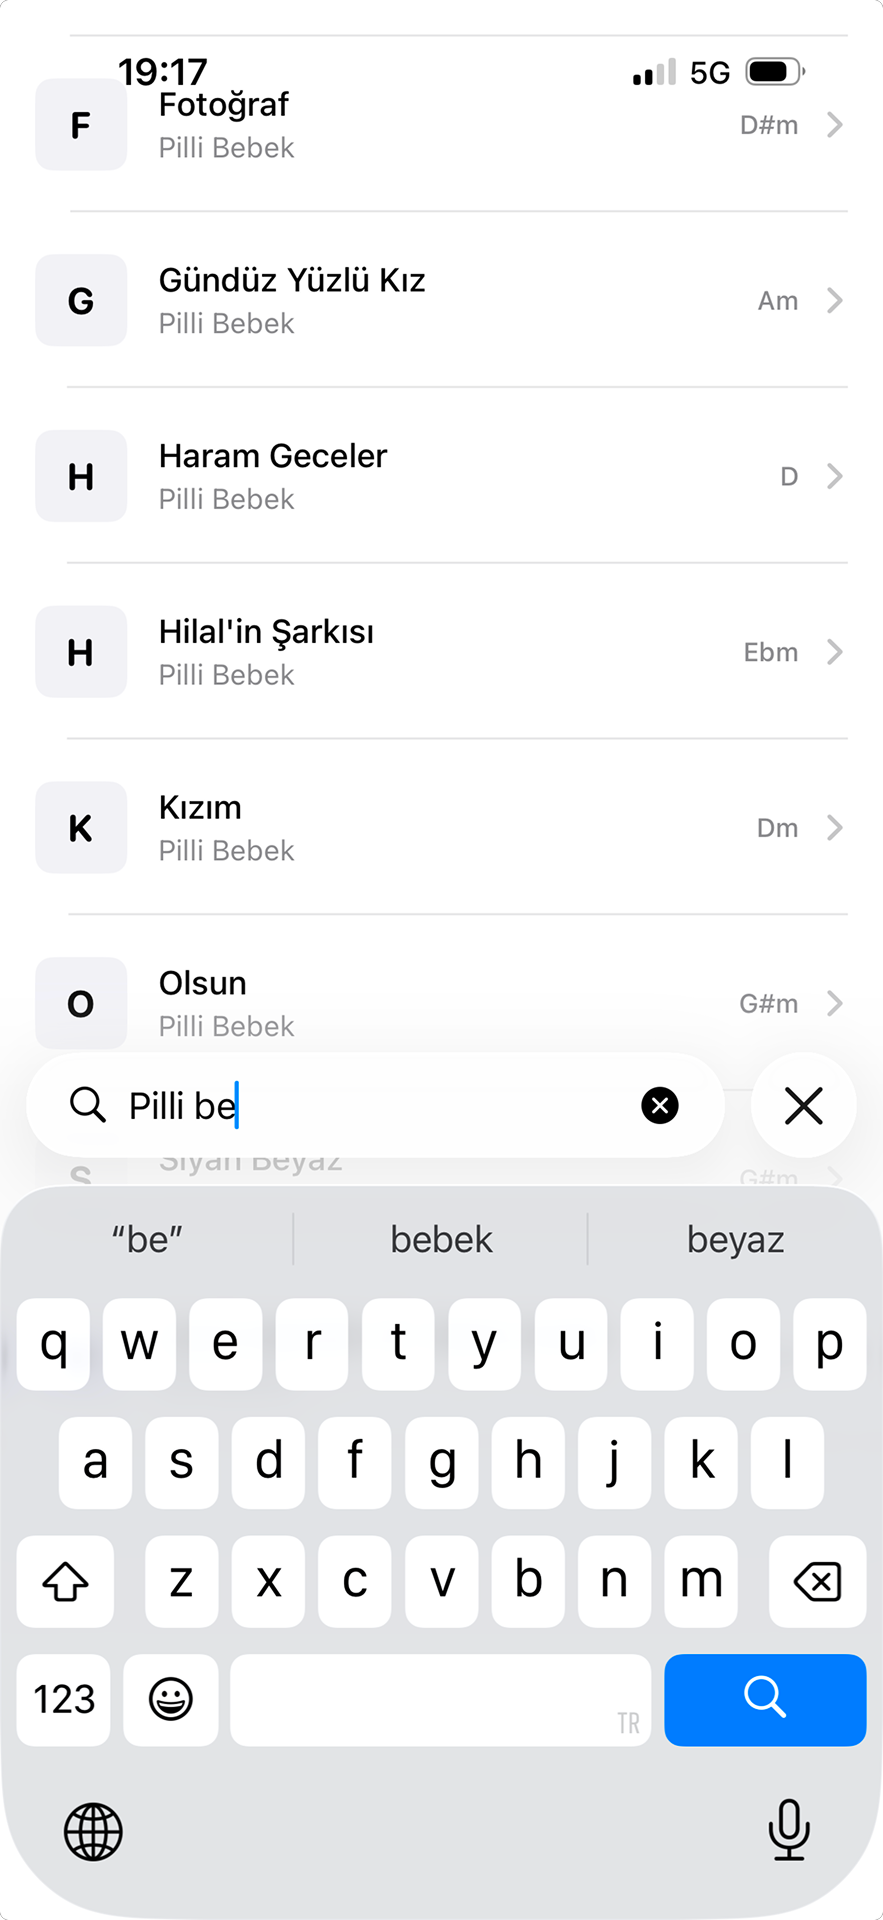
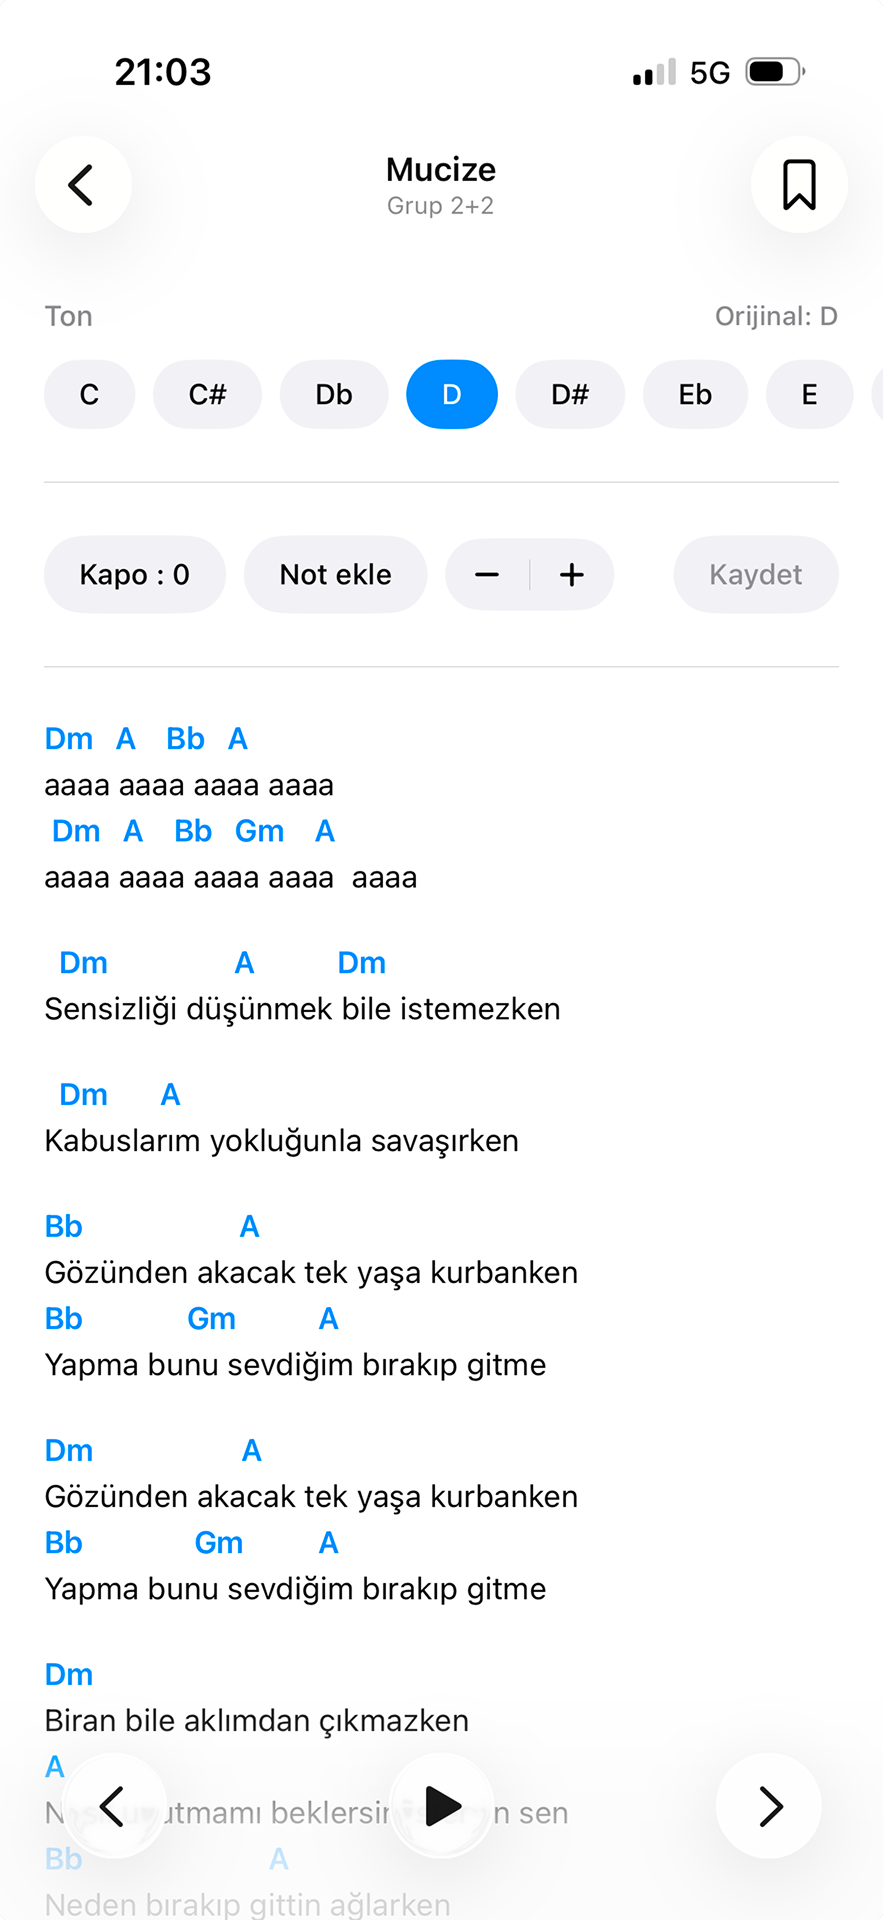
Add privacy policy, terms of use, and update app-ads.txt

diff --git a/src/app/privacy/page.tsx b/src/app/privacy/page.tsx
@@ -1,0 +1,83 @@
+import Navigation from "@/components/Navigation";
+import Footer from "@/components/Footer";
+
+export const metadata = {
+  title: "Gizlilik Politikası | Gituar",
+  description: "Gituar uygulaması gizlilik politikası ve kişisel verilerin korunması hakkında bilgilendirme.",
+};
+
+export default function PrivacyPolicy() {
+  return (
+    <main className="min-h-screen bg-white">
+      <Navigation />
+      
+      <div className="pt-32 pb-20 px-6 max-w-[800px] mx-auto">
+        <h1 className="text-4xl font-semibold tracking-tight text-black mb-8">Gizlilik Politikası</h1>
+        
+        <div className="prose prose-zinc max-w-none text-zinc-600">
+          <p className="text-sm mb-8">Son güncellenme tarihi: {new Date().toLocaleDateString('tr-TR')}</p>
+          
+          <h2 className="text-xl font-medium text-black mt-8 mb-4">1. Giriş</h2>
+          <p className="mb-4">
+            Gituar ("biz", "bize" veya "bizim") olarak gizliliğinize saygı duyuyoruz. Bu Gizlilik Politikası, mobil uygulamamızı ve hizmetlerimizi kullanırken kişisel bilgilerinizin nasıl toplandığını, kullanıldığını ve paylaşıldığını açıklar. Apple'ın App Store gizlilik standartlarına tam uyum sağlamayı taahhüt ediyoruz.
+          </p>
+
+          <h2 className="text-xl font-medium text-black mt-8 mb-4">2. Toplanan Veriler</h2>
+          <p className="mb-4">
+            Uygulamamızı kullandığınızda aşağıdaki türde bilgileri toplayabiliriz:
+          </p>
+          <ul className="list-disc pl-5 mb-4 space-y-2">
+            <li><strong>Kullanıcı Tarafından Sağlanan Veriler:</strong> Hesap oluştururken verdiğiniz e-posta adresi ve profil bilgileri.</li>
+            <li><strong>Uygulama İçi Veriler:</strong> Favori şarkılarınız, repertuvarlarınız ve uygulama içi etkileşimleriniz.</li>
+            <li><strong>Cihaz ve Teşhis Verileri:</strong> Cihaz modeli, işletim sistemi sürümü, çökme günlükleri (crash logs) ve performans verileri.</li>
+          </ul>
+
+          <h2 className="text-xl font-medium text-black mt-8 mb-4">3. Verilerin Kullanımı</h2>
+          <p className="mb-4">
+            Topladığımız bilgileri şu amaçlarla kullanırız:
+          </p>
+          <ul className="list-disc pl-5 mb-4 space-y-2">
+            <li>Size kişiselleştirilmiş bir deneyim sunmak ve repertuvarlarınızı cihazlar arası senkronize etmek.</li>
+            <li>Uygulama performansını izlemek, hataları gidermek ve hizmetlerimizi geliştirmek.</li>
+            <li>Güvenliği sağlamak ve kötüye kullanımı önlemek.</li>
+          </ul>
+
+          <h2 className="text-xl font-medium text-black mt-8 mb-4">4. Veri Paylaşımı ve Üçüncü Taraflar</h2>
+          <p className="mb-4">
+            Kişisel verilerinizi asla üçüncü taraflara satmayız. Ancak hizmetlerimizi sunabilmek için aşağıdaki gibi güvenilir servis sağlayıcılarla çalışabiliriz:
+          </p>
+          <ul className="list-disc pl-5 mb-4 space-y-2">
+            <li><strong>Google AdMob:</strong> Uygulama içinde reklam göstermek için kullanılır. AdMob, size uygun reklamlar sunabilmek için cihaz tanımlayıcılarını kullanabilir. Cihaz ayarlarınızdan reklam kişiselleştirmeyi sınırlandırabilirsiniz.</li>
+            <li><strong>Firebase:</strong> Veritabanı yönetimi, kimlik doğrulama, çökme analizleri ve analitik için kullanılır.</li>
+          </ul>
+
+          <h2 className="text-xl font-medium text-black mt-8 mb-4">5. Veri Silme ve Kullanıcı Hakları</h2>
+          <p className="mb-4">
+            Apple yönergeleri gereğince verileriniz üzerinde tam kontrol sahibisiniz:
+          </p>
+          <ul className="list-disc pl-5 mb-4 space-y-2">
+            <li>Uygulama içindeki hesap ayarları bölümünden hesabınızı ve tüm verilerinizi kalıcı olarak silebilirsiniz.</li>
+            <li>Hangi verilerinizi sakladığımızı öğrenmek veya dışa aktarmak için bizimle iletişime geçebilirsiniz.</li>
+          </ul>
+
+          <h2 className="text-xl font-medium text-black mt-8 mb-4">6. Veri Güvenliği</h2>
+          <p className="mb-4">
+            Verilerinizi korumak için endüstri standardı şifreleme ve güvenlik önlemleri kullanıyoruz. Verileriniz güvenli sunucularda saklanır ve yalnızca gerekli durumlarda erişilir.
+          </p>
+
+          <h2 className="text-xl font-medium text-black mt-8 mb-4">7. Çocukların Gizliliği</h2>
+          <p className="mb-4">
+            Hizmetlerimiz 13 yaşın altındaki çocuklara yönelik değildir. 13 yaşın altındaki çocuklardan bilerek kişisel bilgi toplamıyoruz.
+          </p>
+
+          <h2 className="text-xl font-medium text-black mt-8 mb-4">8. İletişim</h2>
+          <p className="mb-4">
+            Bu Gizlilik Politikası hakkında sorularınız varsa, lütfen bizimle iletişime geçin: <strong>iletisim@gituar.com</strong>
+          </p>
+        </div>
+      </div>
+
+      <Footer />
+    </main>
+  );
+}

diff --git a/src/app/terms/page.tsx b/src/app/terms/page.tsx
@@ -1,0 +1,75 @@
+import Navigation from "@/components/Navigation";
+import Footer from "@/components/Footer";
+
+export const metadata = {
+  title: "Kullanım Koşulları | Gituar",
+  description: "Gituar uygulaması kullanım koşulları ve hizmet şartları.",
+};
+
+export default function TermsOfUse() {
+  return (
+    <main className="min-h-screen bg-white">
+      <Navigation />
+      
+      <div className="pt-32 pb-20 px-6 max-w-[800px] mx-auto">
+        <h1 className="text-4xl font-semibold tracking-tight text-black mb-8">Kullanım Koşulları</h1>
+        
+        <div className="prose prose-zinc max-w-none text-zinc-600">
+          <p className="text-sm mb-8">Son güncellenme tarihi: {new Date().toLocaleDateString('tr-TR')}</p>
+          
+          <h2 className="text-xl font-medium text-black mt-8 mb-4">1. Kabul Edilme</h2>
+          <p className="mb-4">
+            Gituar uygulamasını indirerek, erişerek veya kullanarak bu Kullanım Koşulları'nı kabul etmiş olursunuz. Bu koşulları kabul etmiyorsanız, lütfen uygulamayı kullanmayın.
+          </p>
+
+          <h2 className="text-xl font-medium text-black mt-8 mb-4">2. Hizmetin Kullanımı</h2>
+          <p className="mb-4">
+            Gituar, gitaristlere akorları, sözleri ve repertuvarları yönetme imkanı sunar. Hizmetimizi kullanırken aşağıdaki kurallara uymayı kabul edersiniz:
+          </p>
+          <ul className="list-disc pl-5 mb-4 space-y-2">
+            <li>Uygulamayı yasadışı amaçlar için kullanmamak.</li>
+            <li>Diğer kullanıcıların deneyimini bozacak veya engelleyecek eylemlerde bulunmamak.</li>
+            <li>Uygulamanın çalışmasını engellemeye, tersine mühendislik yapmaya veya sisteme zarar vermeye çalışmamak.</li>
+          </ul>
+
+          <h2 className="text-xl font-medium text-black mt-8 mb-4">3. Hesap ve Güvenlik</h2>
+          <p className="mb-4">
+            Bazı özelliklere erişmek için bir hesap oluşturmanız gerekebilir. Hesap bilgilerinizin gizliliğini korumak ve hesabınız altında gerçekleşen tüm faaliyetlerden siz sorumlusunuz. Yetkisiz bir kullanım tespit ederseniz, derhal bizimle iletişime geçmelisiniz.
+          </p>
+
+          <h2 className="text-xl font-medium text-black mt-8 mb-4">4. Fikri Mülkiyet ve İçerik</h2>
+          <p className="mb-4">
+            Uygulamada yer alan şarkı sözleri, akorlar ve benzeri içerikler, ilgili hak sahiplerinin mülkiyetinde olabilir ve yalnızca eğitim, pratik ve kişisel kullanım amacıyla sunulmaktadır. Gituar uygulamasının yazılımı, tasarımı, logosu ve kaynak kodları tarafımıza aittir ve telif hakkı yasalarıyla korunmaktadır.
+          </p>
+
+          <h2 className="text-xl font-medium text-black mt-8 mb-4">5. Kullanıcı Tarafından Oluşturulan İçerik</h2>
+          <p className="mb-4">
+            Uygulamaya kendi içeriklerinizi veya repertuvarlarınızı eklediğinizde, bu içeriklerin yasal sorumluluğu tamamen size aittir. Telif hakkı veya diğer mülkiyet haklarını ihlal eden içerikler tespit edildiğinde, tarafımızca uyarı yapılmaksızın silinebilir.
+          </p>
+
+          <h2 className="text-xl font-medium text-black mt-8 mb-4">6. Uygulama İçi Satın Alımlar ve Abonelikler</h2>
+          <p className="mb-4">
+            Gituar, Apple App Store üzerinden uygulama içi satın alımlar veya otomatik yenilenen abonelikler sunabilir. Satın alma işlemleri Apple'ın standart politikalarına tabidir ve iptal/iade işlemleri cihazınızdaki Apple Kimliği (Apple ID) ayarlarından yapılmalıdır.
+          </p>
+
+          <h2 className="text-xl font-medium text-black mt-8 mb-4">7. Garanti Reddi ve Sorumluluğun Sınırlandırılması</h2>
+          <p className="mb-4">
+            Uygulama "olduğu gibi" ve "mevcut olduğu şekilde" sağlanmaktadır. Uygulamanın kesintisiz veya hatasız çalışacağı garantisini vermiyoruz. Gituar'ın kullanımından doğabilecek doğrudan veya dolaylı hiçbir veri kaybı veya zarardan tarafımız sorumlu tutulamaz.
+          </p>
+
+          <h2 className="text-xl font-medium text-black mt-8 mb-4">8. Değişiklikler</h2>
+          <p className="mb-4">
+            Bu koşulları dilediğimiz zaman önceden haber vermeksizin güncelleyebiliriz. Önemli değişiklikler olması durumunda uygulama içinde bildirimde bulunacağız. Değişikliklerden sonra uygulamayı kullanmaya devam etmeniz, yeni koşulları kabul ettiğiniz anlamına gelir.
+          </p>
+
+          <h2 className="text-xl font-medium text-black mt-8 mb-4">9. İletişim</h2>
+          <p className="mb-4">
+            Kullanım koşullarıyla ilgili her türlü sorunuz için bizimle iletişime geçebilirsiniz: <strong>iletisim@gituar.com</strong>
+          </p>
+        </div>
+      </div>
+
+      <Footer />
+    </main>
+  );
+}

diff --git a/src/components/IPhoneScene.tsx b/src/components/IPhoneScene.tsx
@@ -169,7 +169,7 @@ export default function IPhoneScene() {
         start: 'top bottom',
         end: 'top top',
         scrub: true,
-        animation: gsap.fromTo(proxy, { p: 0 }, { p: 1, ease: 'none', onUpdate: onUpdateProxy })
+        animation: gsap.fromTo(proxy, { p: 0 }, { p: 1, ease: 'none', onUpdate: onUpdateProxy, immediateRender: false })
       });
 
       // 2. Inside Features (Slow motion drift during pin)
@@ -178,7 +178,7 @@ export default function IPhoneScene() {
         start: 'top top',
         end: '+=300%',
         scrub: true,
-        animation: gsap.fromTo(proxy, { p: 1 }, { p: 1.05, ease: 'none', onUpdate: onUpdateProxy })
+        animation: gsap.fromTo(proxy, { p: 1 }, { p: 1.05, ease: 'none', onUpdate: onUpdateProxy, immediateRender: false })
       });
 
       // 3. Features to Community (Fast transition)
@@ -187,7 +187,7 @@ export default function IPhoneScene() {
         start: 'top bottom',
         end: 'top top',
         scrub: true,
-        animation: gsap.fromTo(proxy, { p: 1.05 }, { p: 2, ease: 'none', onUpdate: onUpdateProxy })
+        animation: gsap.fromTo(proxy, { p: 1.05 }, { p: 2, ease: 'none', onUpdate: onUpdateProxy, immediateRender: false })
       });
 
       // 4. Inside Community (Slow motion drift during pin)
@@ -196,7 +196,7 @@ export default function IPhoneScene() {
         start: 'top top',
         end: '+=300%',
         scrub: true,
-        animation: gsap.fromTo(proxy, { p: 2 }, { p: 2.05, ease: 'none', onUpdate: onUpdateProxy })
+        animation: gsap.fromTo(proxy, { p: 2 }, { p: 2.05, ease: 'none', onUpdate: onUpdateProxy, immediateRender: false })
       });
 
       // 5. Community to CTA (Fast transition)
@@ -205,8 +205,12 @@ export default function IPhoneScene() {
         start: 'top bottom',
         end: 'top top',
         scrub: true,
-        animation: gsap.fromTo(proxy, { p: 2.05 }, { p: 3, ease: 'none', onUpdate: onUpdateProxy })
+        animation: gsap.fromTo(proxy, { p: 2.05 }, { p: 3, ease: 'none', onUpdate: onUpdateProxy, immediateRender: false })
       });
+
+      // Force initial update to state 0
+      onUpdateProxy();
+      ScrollTrigger.refresh();
       
       // Initialize to state 0
       applyTexture(0);

diff --git a/src/components/sections/FeaturesSection.tsx b/src/components/sections/FeaturesSection.tsx
@@ -56,13 +56,12 @@ export default function FeaturesSection() {
 
   useEffect(() => {
     const ctx = gsap.context(() => {
-      const label = sectionRef.current?.querySelector('.feature-label');
       const titleContainer = sectionRef.current?.querySelector('.feature-title-container');
       const cards = sectionRef.current?.querySelectorAll('.feature-card');
       const chars = textRef.current?.querySelectorAll('.char');
 
       // Başlangıç durumu
-      gsap.set([label, titleContainer], { opacity: 0, y: 40 });
+      gsap.set([titleContainer], { opacity: 0, y: 40 });
       gsap.set(cards, { opacity: 0, x: 60 }); // Kutucuklar sağdan gelecek
 
       // Scroll timeline
@@ -77,8 +76,7 @@ export default function FeaturesSection() {
         }
       });
 
-      tl.to(label, { opacity: 1, y: 0, duration: 1 })
-        .to(titleContainer, { opacity: 1, y: 0, duration: 1 }, "-=0.5")
+      tl.to(titleContainer, { opacity: 1, y: 0, duration: 1 })
         .add("textFillStart", "-=0.5")
         .to(chars, { color: '#000000', stagger: 0.1, duration: 2 }, "textFillStart")
         // Kutucuklar başlık efektiyle eş zamanlı gelmeye başlar
@@ -107,16 +105,11 @@ export default function FeaturesSection() {
       <div className="w-full max-w-[800px] px-6">
         <div className="ml-auto max-w-[460px]">
           <div className="mb-10">
-            <div className="feature-label inline-flex items-center gap-2 bg-zinc-100 border border-zinc-200 rounded-full px-4 py-2 w-fit mb-4">
-              <span className="text-[12px] font-medium text-black tracking-wide uppercase">
-                Özellikler
-              </span>
-            </div>
             <div className="feature-title-container">
               <h2 ref={textRef} className="text-[36px] leading-[1.1] font-medium tracking-[-0.025em]">
-                {renderText("Müziğini")}
+                {renderText("Repertuvarın")}
                 <br />
-                {renderText("Sahneni Genişlet")}
+                {renderText("Kontrolün Altında")}
               </h2>
             </div>
           </div>

diff --git a/src/components/Footer.tsx b/src/components/Footer.tsx
@@ -2,27 +2,18 @@ export default function Footer() {
   return (
     <footer
       className="relative border-t border-zinc-100 bg-white"
-      style={{ zIndex: 1 }}
+      style={{ zIndex: 20 }}
     >
       <div className="max-w-[800px] mx-auto px-6 py-10 flex flex-col sm:flex-row items-center justify-between gap-4">
-        <div className="flex items-center gap-2.5">
-          <div className="w-7 h-7 rounded-[7px] bg-black flex items-center justify-center">
-            <svg viewBox="0 0 24 24" fill="white" className="w-4 h-4">
-              <path d="M12 3a9 9 0 100 18A9 9 0 0012 3zm0 2a7 7 0 110 14A7 7 0 0112 5zm-1 3v5l4 2.5-.75 1.23L10 14V8h1z" />
-            </svg>
-          </div>
-          <span className="text-[14px] font-semibold text-black">Gituar</span>
-        </div>
-
-        <p className="text-[13px] text-zinc-400 text-center">
+        <p className="text-[13px] text-zinc-400 text-center sm:text-left">
           © {new Date().getFullYear()} Gituar. Tüm hakları saklıdır.
         </p>
 
         <div className="flex gap-5">
-          <a href="/app-ads.txt" className="text-[13px] text-zinc-400 hover:text-black transition-colors">
-            Gizlilik
+          <a href="/privacy" className="text-[13px] text-zinc-400 hover:text-black transition-colors">
+            Gizlilik Politikası
           </a>
-          <a href="#" className="text-[13px] text-zinc-400 hover:text-black transition-colors">
+          <a href="/terms" className="text-[13px] text-zinc-400 hover:text-black transition-colors">
             Kullanım Koşulları
           </a>
         </div>

diff --git a/src/components/sections/CommunitySection.tsx b/src/components/sections/CommunitySection.tsx
@@ -71,14 +71,14 @@ export default function CommunitySection() {
         <div className="max-w-[400px] flex flex-col gap-6">
           <div className="community-title-container">
             <h2 ref={textRef} className="text-[36px] leading-[1.1] font-medium tracking-[-0.025em]">
-              {renderText("Müziğini")}
+              {renderText("Devasa Şarkı")}
               <br />
-              {renderText("Sahneni Genişlet")}
+              {renderText("ve Sanatçı Arşivi")}
             </h2>
           </div>
 
           <p className="community-desc text-[15px] leading-[1.6] text-zinc-500">
-            Gituar ile akorlarını düzenle, dijital repertuarını oluştur ve Popüler şarkıları saniyeler içinde keşfet. Müzik yolculuğunda ihtiyacın olan her şey tek bir platformda.
+            Genişleyen şarkı ve sanatçı havuzumuzda aradığın her şeyi bul. Topluluğun gücüyle her gün eklenen yeni şarkıları keşfet ve popüler şarkılar listesiyle trendleri yakala.
           </p>
 
           {/* Stats */}

diff --git a/src/components/sections/CTASection.tsx b/src/components/sections/CTASection.tsx
@@ -15,13 +15,13 @@ export default function CTASection() {
 
       <div className="relative z-10 w-full max-w-[800px] px-6 flex flex-col items-center text-center">
         <h2 className="text-[42px] leading-[1.1] font-medium tracking-[-0.03em] text-black mb-6 max-w-[800px] text-balance">
-          Müziğini
+          Hemen Sahneye
           <br />
-          Sahneni Genişlet
+          Adım At
         </h2>
 
         <p className="text-[16px] leading-[24px] font-normal text-zinc-500 max-w-[540px] mb-10">
-          Gituar ile akorlarını düzenle, dijital repertuarını oluştur ve Popüler şarkıları saniyeler içinde keşfet. Müzik yolculuğunda ihtiyacın olan her şey tek bir platformda.
+          Gituar uygulamasını indirerek akıllı cihazlarını dijital bir nota sehpasına dönüştür. İlk şarkını ekle ve sahneye hazır ol!
         </p>
 
         <a
